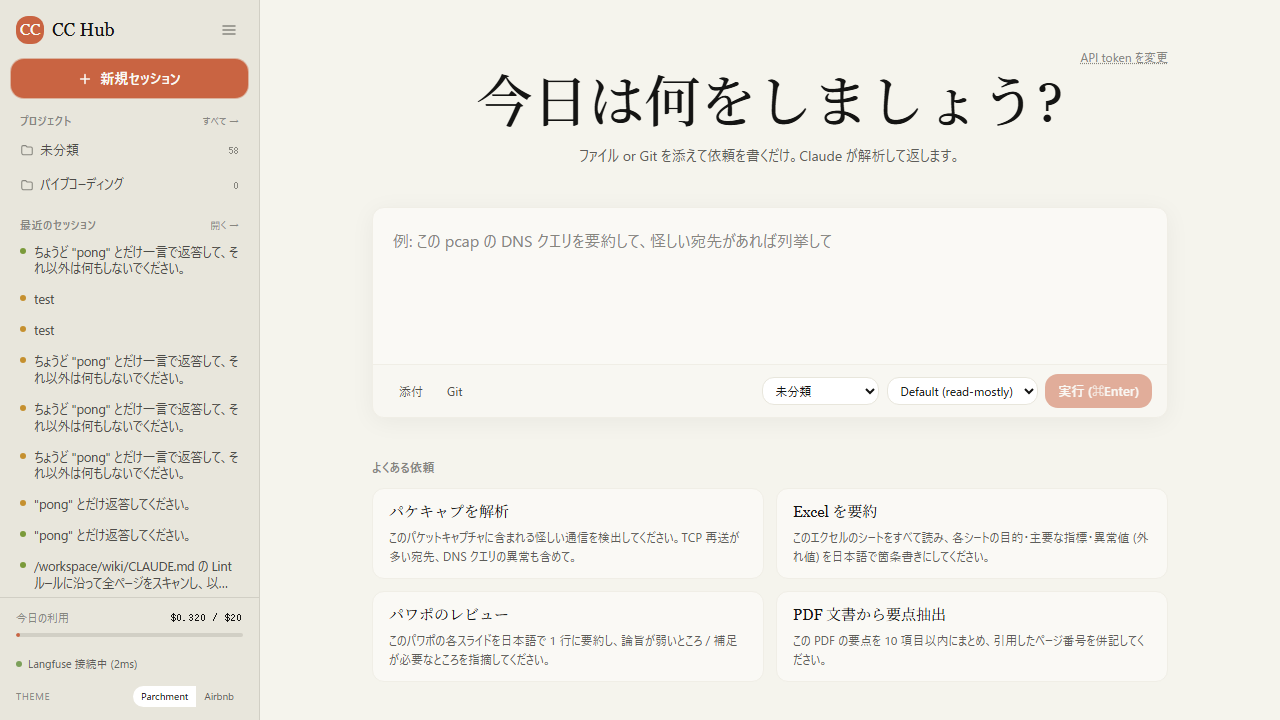
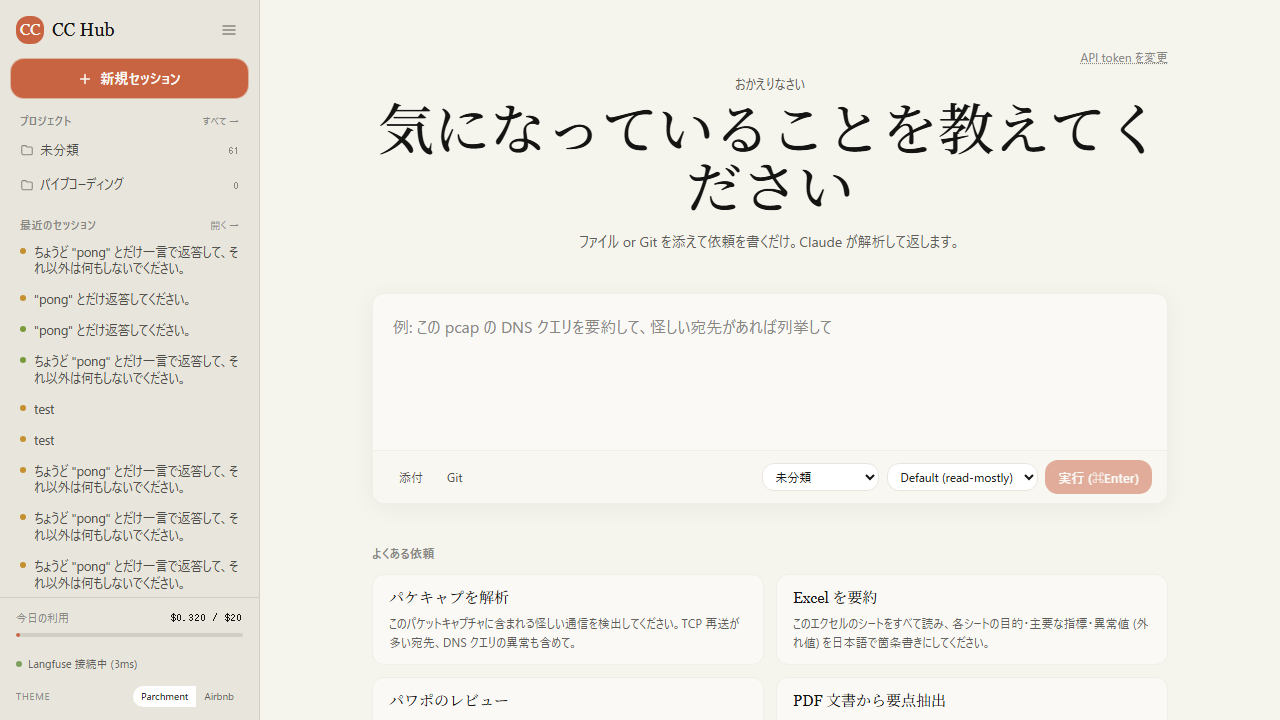
Landing: randomized headline + time-of-day greeting
Replace the static "今日は何をしましょう?" with a pair of values picked
on client mount:

- A tiny greeting line above the headline, keyed to the current hour
  (JST): dawn / morning / noon / afternoon / evening / night / late.
  Each slot has 3 variants — e.g. 15:00 might show "集中できる時間
  ですね", 22:00 "こんばんは", 02:00 "夜更かしですね".
- The big headline itself rotates through 10 prompts: "何から始めま
  しょうか?" / "どんなタスクですか?" / "気になっていることを教えて
  ください" / etc. "今日は何をしましょう?" remains in the pool.

Picking runs inside useEffect so SSR serves a neutral default string,
matching hydration; suppressHydrationWarning keeps React quiet about
the post-mount swap without silencing real issues. No external state,
no cookie, no seed — every visit gets a new pair.

Existing E2E (quality / themes) remain green since no assertion was
tied to the exact headline text.

diff --git a/apps/web/src/app/page.tsx b/apps/web/src/app/page.tsx
@@ -44,6 +44,45 @@ function phaseLabel(phase: SubmitPhase, uploadIndex = 0, uploadTotal = 0): strin
   return '実行 (⌘Enter)';
 }
 
+// ─── Time-of-day greeting + randomized headline ─────────────────────
+type TimeSlot = 'dawn' | 'morning' | 'noon' | 'afternoon' | 'evening' | 'night' | 'late';
+
+const GREETINGS: Record<TimeSlot, string[]> = {
+  dawn:      ['早起きですね、おはようございます', '早朝からお疲れ様です', 'まだ静かな朝ですね'],
+  morning:   ['おはようございます', 'いい朝ですね', '今日も一日始まりました'],
+  noon:      ['こんにちは', 'お昼休憩中ですか?', 'お疲れ様です'],
+  afternoon: ['午後もよろしくお願いします', '集中できる時間ですね', 'おかえりなさい'],
+  evening:   ['お疲れ様です', 'こんばんは', '一日、お疲れ様です'],
+  night:     ['こんばんは', '夜の作業ですね', 'お疲れ様です'],
+  late:      ['夜更かしですね', 'こんな時間までお疲れ様です', 'もう少しで一段落?'],
+};
+
+const HEADLINES: string[] = [
+  '今日は何をしましょう?',
+  '何から始めましょうか?',
+  'どんなタスクですか?',
+  'どんな資料を見てもらいましょう?',
+  '気になっていることを教えてください',
+  '手伝えることはありますか?',
+  '次の一歩、お手伝いします',
+  '今日の困りごとを教えてください',
+  'どんな調べ物をしますか?',
+  'さて、始めましょうか',
+];
+
+function pickSlot(h: number): TimeSlot {
+  if (h >= 5 && h < 8) return 'dawn';
+  if (h >= 8 && h < 11) return 'morning';
+  if (h >= 11 && h < 14) return 'noon';
+  if (h >= 14 && h < 17) return 'afternoon';
+  if (h >= 17 && h < 19) return 'evening';
+  if (h >= 19 && h < 23) return 'night';
+  return 'late';
+}
+function pickRandom<T>(arr: readonly T[]): T {
+  return arr[Math.floor(Math.random() * arr.length)]!;
+}
+
 export default function Home() {
   const router = useRouter();
   const [profiles, setProfiles] = useState<ToolProfile[]>([]);
@@ -58,6 +97,21 @@ export default function Home() {
   const [uploadProgress, setUploadProgress] = useState<{ index: number; total: number }>({ index: 0, total: 0 });
   const [error, setError] = useState<string>();
   const loading = phase !== 'idle';
+
+  // Time-based greeting + random headline, picked on client mount to avoid
+  // SSR hydration mismatch. SSR serves a neutral default that gets replaced
+  // after hydration so the pair is always refreshed per visit.
+  const [greeting, setGreeting] = useState<{ hello: string; headline: string }>({
+    hello: '',
+    headline: '今日は何をしましょう?',
+  });
+  useEffect(() => {
+    const slot = pickSlot(new Date().getHours());
+    setGreeting({
+      hello: pickRandom(GREETINGS[slot]),
+      headline: pickRandom(HEADLINES),
+    });
+  }, []);
 
   useEffect(() => {
     void Promise.all([
@@ -123,8 +177,16 @@ export default function Home() {
       <TokenSetup />
 
       <header className="mb-10 mt-2 text-center">
-        <h1 className="font-serif text-[56px] leading-[1.05] text-near theme-airbnb-hero">
-          今日は何をしましょう?
+        {greeting.hello && (
+          <div className="mb-2 font-sans text-[13px] text-olive" suppressHydrationWarning>
+            {greeting.hello}
+          </div>
+        )}
+        <h1
+          className="font-serif text-[56px] leading-[1.05] text-near theme-airbnb-hero"
+          suppressHydrationWarning
+        >
+          {greeting.headline}
         </h1>
         <p className="mt-3 font-sans text-[14px] text-olive">
           ファイル or Git を添えて依頼を書くだけ。Claude が解析して返します。
